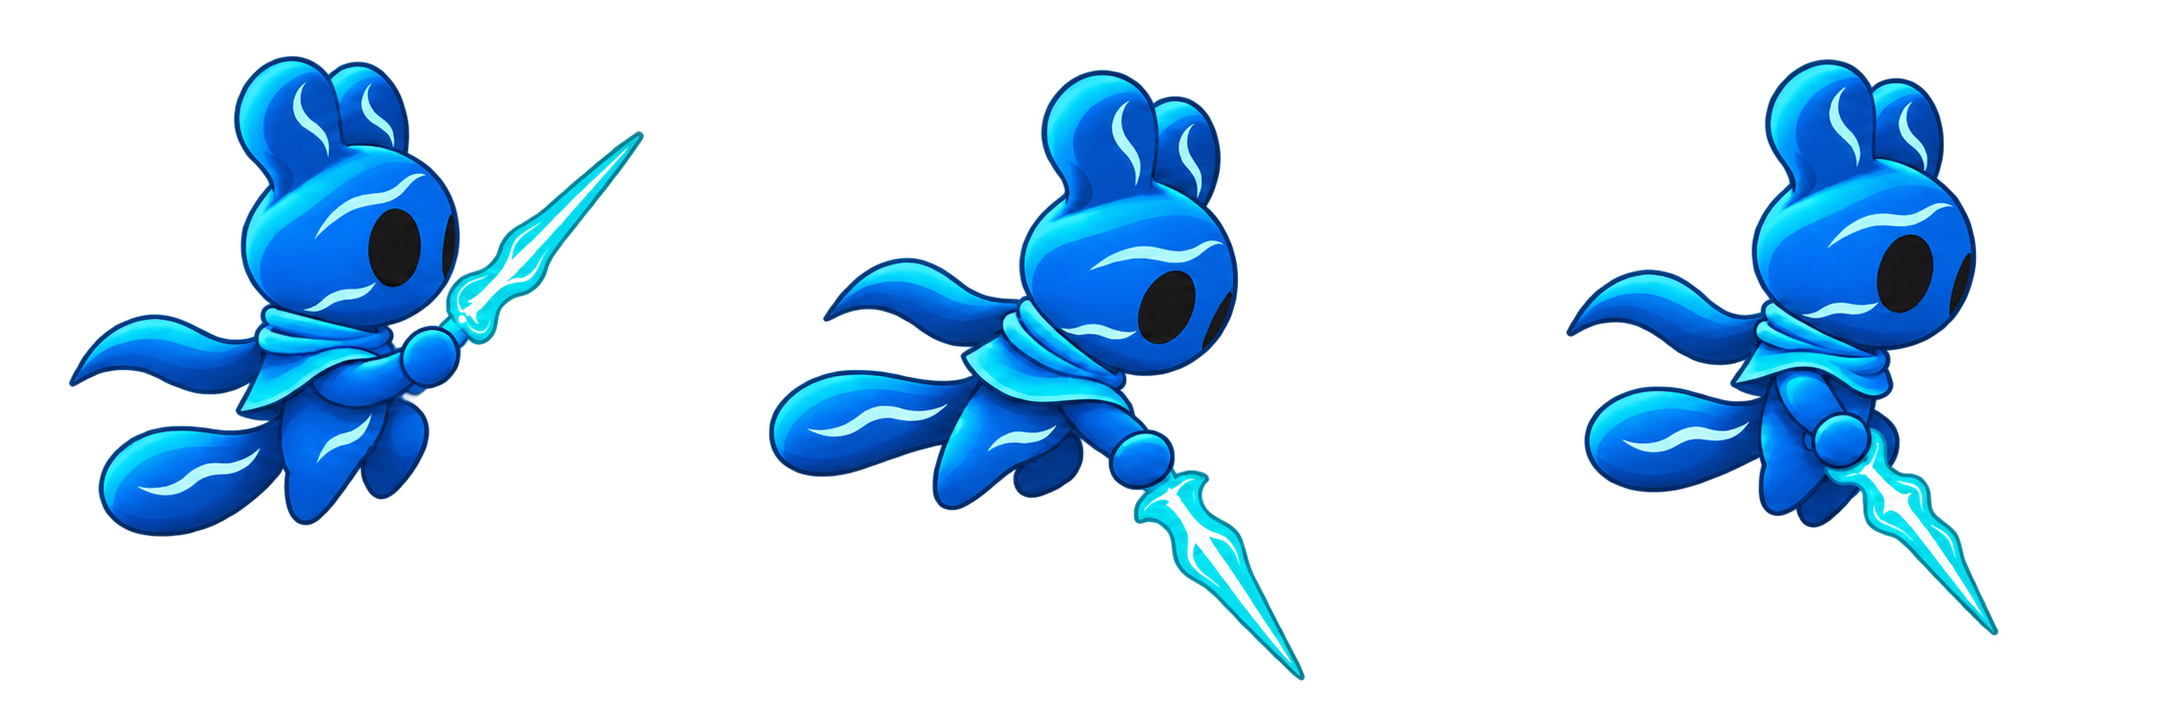
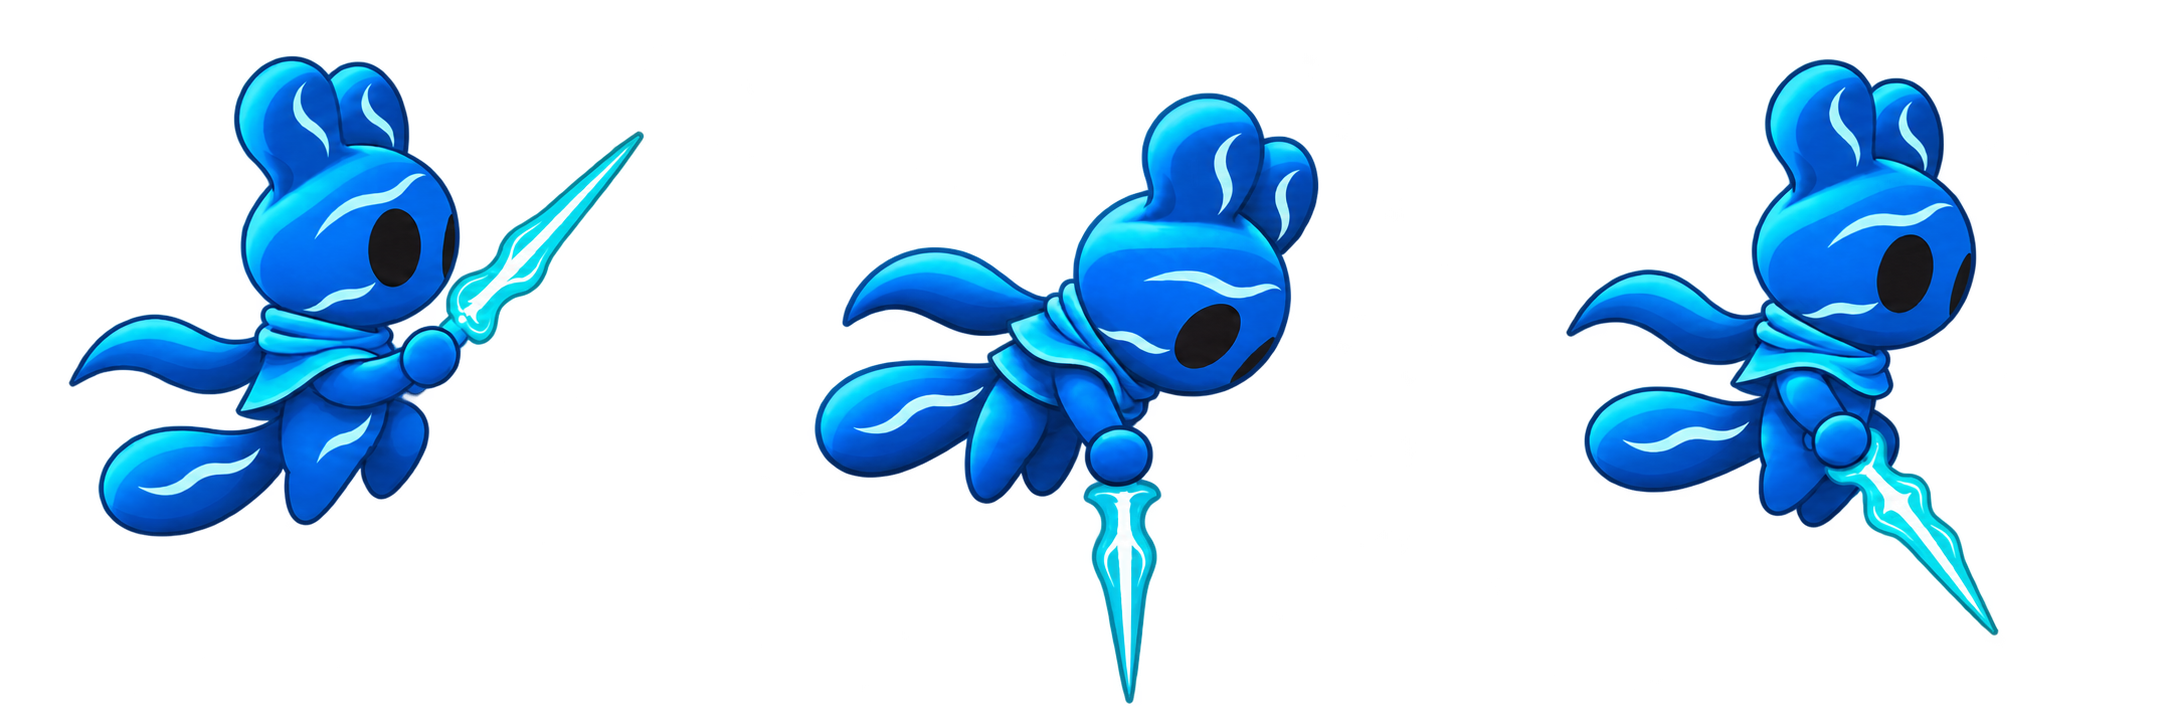
fix(combat): 아래 베기 적중 자세와 검 궤적 동기화
워든의 검을 발밑으로 내리고 pixelfx 전류를 검 끝부터 적중점 높이까지 연결했다. 히트스톱 동안 적중 자세를 유지한 뒤 상승 자세로 전환한다.

전원 구역의 실제 SDL 창에서 공중 S+J를 입력해 연속 13프레임의 준비, 베기, 적중 정지, 반동을 확인했다. 전체 자동 회귀와 게임 전체 수동 플레이는 실행하지 않았다.

Changed region(s): [[0.3393, 0.0912, 0.6169, 0.9724]]

diff --git a/game/character.py b/game/character.py
@@ -156,6 +156,7 @@ class Character(GameObject):
         self.attack_facing = 1
         self.airborne_swing = False
         self.downstrike_elapsed = 0.0
+        self.downstrike_impact = False
         self.attack_sweeps = []
         self.jump_phase = None
         self.jump_elapsed = 0.0
@@ -308,6 +309,7 @@ class Character(GameObject):
         self.hp -= 1
         self.invulnerability_remaining = max(0.0, .75 - elapsed)
         self.hurt_remaining = HURT_SECONDS
+        self.downstrike_impact = False
         self.attack_sweeps.clear()
         self.arrival_link = None
         self.buffered_action, self.buffer_remaining = None, 0.0
@@ -387,6 +389,7 @@ class Character(GameObject):
     def teleport(self, position):
         if not self.can_teleport(position):
             return False
+        self.downstrike_impact = False
         self.arrival_link = None
         self.hurt_remaining = 0.0
         self.attack_sweeps.clear()
@@ -468,6 +471,7 @@ class Character(GameObject):
         return action
 
     def update(self, dt):
+        self.downstrike_impact = False
         self.invulnerability_remaining = max(0.0, self.invulnerability_remaining - dt)
         self.teleport_guard_remaining = max(0.0, self.teleport_guard_remaining - dt)
         self.attack_sweeps.clear()
@@ -690,6 +694,7 @@ class Character(GameObject):
         self.pushback_remaining = self.air_recoil_velocity = 0.0
         self._start_rebound(downstrike.BOUNCE_SPEED)
         self._show_jump()
+        self.downstrike_impact = True
 
     def _update_jump(self, dt):
         remaining, airborne_time = dt, 0.0
@@ -855,8 +860,11 @@ class Character(GameObject):
         if self.state == 'attack':
             flip_x = self.attack_facing < 0
         link = self.arrival_link
-        if (self.state == 'idle' and link is not None and link.level is not None
-                and link.elapsed < ARRIVAL_BLEND_SECONDS):
+        if self.downstrike_impact:
+            # 레벨의 히트스톱이 끝나고 다음 갱신이 시작될 때까지 베는 자세를 유지한다.
+            frame, flip_x = self.clips['downstrike'].frames[2], self.facing < 0
+        elif (self.state == 'idle' and link is not None and link.level is not None
+              and link.elapsed < ARRIVAL_BLEND_SECONDS):
             direction = 'right' if self.facing > 0 else 'left'
             frames = self.clips[f'jump_land_{direction}'].frames
             frame, flip_x = frames[len(frames) // 3], False

diff --git a/specs/032-downstrike/verification.md b/specs/032-downstrike/verification.md
@@ -26,3 +26,7 @@
 전원 구역의 중앙 연결부를 실제 SDL 창에서 띄워 기본 공중 베기와 아래 베기를 같은 카메라 배율로 비교했다. 전용 세 자세의 손·검 자루 연결, 타격 프레임의 pixelfx 곡선, 금속 먼지 적중점의 공통 섬광과 상승을 화면에서 확인했다. 워든 몸체는 ImageGen에서 효과를 제거한 자세를 16색으로 등록했다. 아래 베기 동작과 전하 우선순위 등 관련 단위·통합 검사 6개도 통과했다.
 
 [런타임 시트](../../assets/warden/downstrike.png) · [원본 및 효과 출처](../../assets/warden/downstrike-source/provenance.json)
+
+## 적중 자세와 궤적 보정
+
+전원 구역에서 `.\.venv\Scripts\python.exe -X utf8 -B tmp/warden-downstrike-visual/preview-contact.py`로 실제 SDL 창에 공중 S+J를 입력해 연속 13프레임을 캡처했다. 오른쪽을 향한 워든이 회복 중인 금속 먼지 위에서 자세를 준비하고, 발밑으로 검을 내리고, pixelfx 전류 끝에서 적중한 뒤 상승하는 순서를 화면에서 확인했다. 적중 직후에는 45ms 히트스톱 동안 베기 자세가 유지됐으며, 갱신이 재개되면서 상승 자세로 전환됐다. 공중 대시 회복 상태도 같은 장면에서 확인했다. 이번 보정에서는 전체 자동 회귀와 게임 전체 수동 플레이를 실행하지 않았다.

diff --git a/docs/progress.md b/docs/progress.md
@@ -4,7 +4,7 @@
 
 ## 현재 단계
 
-- **공중 아래 베기:** 2026-11-26 요청으로 공중 S+공격에서 별도 수직 타격과 전기 궤적을 적용했다. 지형에 막히지 않은 적중에서 위로 튀고 공중 대시를 회복한다. [명세](../specs/032-downstrike/spec.md) · [검증](../specs/032-downstrike/verification.md).
+- **공중 아래 베기:** 2026-11-26 요청으로 공중 S+공격에서 별도 수직 타격을 적용했다. 후속 보정에서 검 끝과 발밑 전류를 연결하고 적중 시 정지 구간에 베기 자세를 유지했다. 지형에 막히지 않은 적중에서 위로 튀고 공중 대시를 회복한다. [명세](../specs/032-downstrike/spec.md) · [검증](../specs/032-downstrike/verification.md).
 
 - **일반 몬스터 이동과 스폰:** 2026-11-26 요청으로 중앙 금속 먼지와 팬 두 마리의 배치를 조정했다. 금속 먼지가 시작 위치로 복귀하고, 팬이 예고한 방향의 비행 거리에 맞춰 이동한다. 일반 적의 예고·공격 중 방을 나가면 다시 들어올 때 새 예고를 거친다. [명세](../specs/031-enemy-encounters/spec.md) · [검증](../specs/031-enemy-encounters/verification.md).
 

diff --git a/docs/systems/basic-gameplay.md b/docs/systems/basic-gameplay.md
@@ -36,7 +36,7 @@ idle ↔ run은 실제 이동 여부로 결정한다. idle/run → attack은 왼
 
 공중에서 S를 누른 채 J 또는 전하를 선택하지 않은 왼쪽 클릭을 누르면 아래를 벤다. 65ms 준비와 90ms 타격 구간을 거쳐 총 245ms 동안 발밑으로 전기 궤적을 표시한다. A/D 조향과 중력은 계속 적용한다.
 
-지형에 가려지지 않은 아래쪽 적을 먼저 맞히면 위로 튀고 공중 대시 1회를 회복한다. 헛치면 낙하를 이어가며 지형에 먼저 착지하거나 피격·순간이동하면 아래 베기를 종료한다. 지속 시간과 반동 높이는 시험값이다. [검증 기록](../../specs/032-downstrike/verification.md).
+지형에 가려지지 않은 아래쪽 적을 먼저 맞히면 타격 정지 동안 베기 자세를 유지한다. 이후 위로 튀고 공중 대시 1회를 회복한다. 헛치면 낙하를 이어가며 지형에 먼저 착지하거나 피격·순간이동하면 아래 베기를 종료한다. 지속 시간과 반동 높이는 시험값이다. [검증 기록](../../specs/032-downstrike/verification.md).
 
 ## 점프
 
